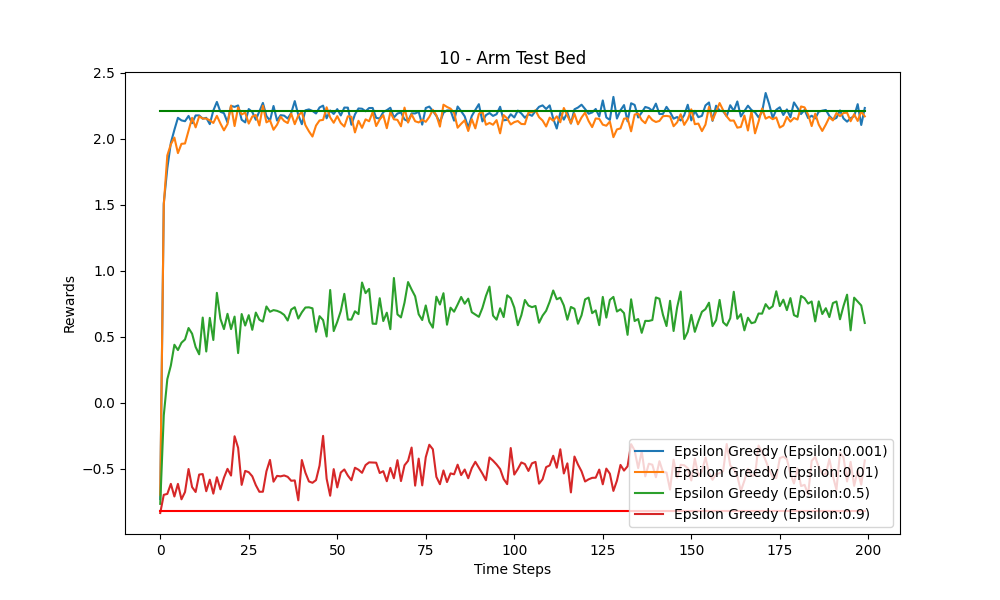
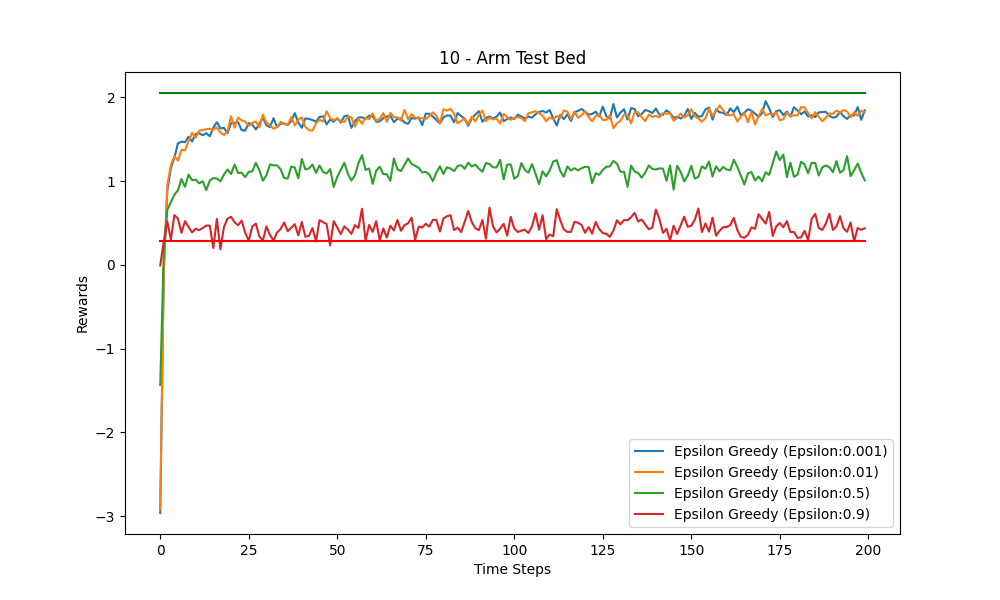
trial run

diff --git a/Multi_Arm_Bandits/__main__.py b/Multi_Arm_Bandits/__main__.py
@@ -19,17 +19,17 @@ from .utils import *
 
 if __name__ == '__main__': 
     env = Environment(
-        # arm_type = 'gaussian', 
-        # n_arms = 10, 
-        # mean_reward_range = (-3, 3), 
-        # std_dev = 1.0, 
-        # n_samples = 2_000
-
-        arm_type = 'exponential', 
+        arm_type = 'gaussian', 
         n_arms = 10, 
-        mean_reward_range = (0, 100), 
+        mean_reward_range = (-3, 3), 
         std_dev = 1.0, 
         n_samples = 2_000
+
+        # arm_type = 'exponential', 
+        # n_arms = 10, 
+        # mean_reward_range = (0, 100), 
+        # std_dev = 1.0, 
+        # n_samples = 2_000
 
     )
     

diff --git a/Multi_Arm_Bandits/environment.py b/Multi_Arm_Bandits/environment.py
@@ -36,6 +36,8 @@ class Environment:
 
     def _create_arms(self) -> dict: 
         low_reward, high_reward = self._reward_range
+        # sampling the initial rewards from a uniform distribution and then simulating uniform as a gaussian 
+        # this can be directly done from gaussian as well - # yet to implement 
         means = np.random.uniform(
             low = low_reward, 
             high = high_reward, 
